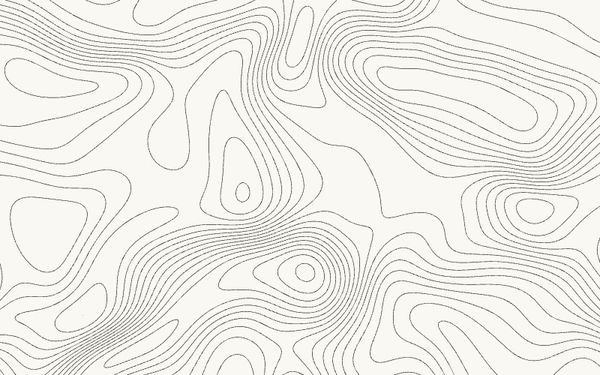
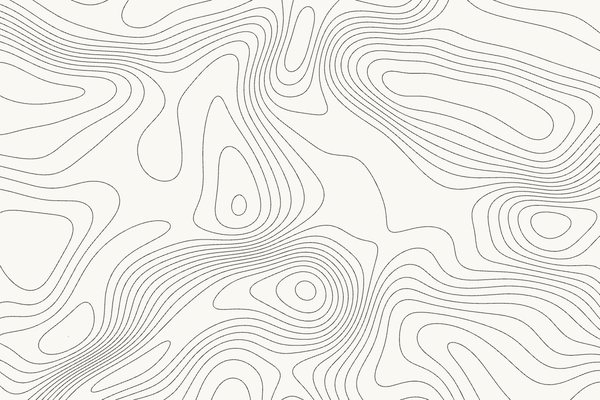
README: classic presets in the gallery, plainer badges
The gallery shows Topo, Survey, Ember, Zebra, Marble and Dune, plus
Marbling and Pearl liquid from the rebuilt Paint generator. Badges drop
the dot separators and the build step badge; counts match the app.

Claude-Session: https://claude.ai/code/session_01KgLG1o7w3wkwu5vVqm2cMx

diff --git a/README.md b/README.md
@@ -8,10 +8,9 @@
 
 <p align="center">
   <img alt="Vanilla JS" src="https://img.shields.io/badge/vanilla-JS-f7df1e?logo=javascript&logoColor=black">
-  <img alt="No build step" src="https://img.shields.io/badge/build_step-none-2ea44f">
-  <img alt="WebGL2" src="https://img.shields.io/badge/WebGL2-50_effects-990000?logo=webgl&logoColor=white">
-  <img alt="Exports" src="https://img.shields.io/badge/export-PNG_·_SVG_·_MP4_·_GIF_·_HTML-555">
-  <img alt="Languages" src="https://img.shields.io/badge/lang-EN_·_RU-3b5bdb">
+  <img alt="WebGL2" src="https://img.shields.io/badge/WebGL2-49_effects-990000?logo=webgl&logoColor=white">
+  <img alt="Exports" src="https://img.shields.io/badge/export-PNG%2C_SVG%2C_MP4%2C_GIF%2C_HTML-555">
+  <img alt="Languages" src="https://img.shields.io/badge/lang-EN%2C_RU-3b5bdb">
   <a href="https://github.com/masterclaudecoder/isoline/actions/workflows/pages.yml"><img alt="Deploy" src="https://github.com/masterclaudecoder/isoline/actions/workflows/pages.yml/badge.svg"></a>
 </p>
 
@@ -20,15 +19,15 @@
 ## Made in the Studio
 
 <p align="center">
-  <img src="docs/readme/g-marbling.jpg" width="32%" alt="Marbled paint gradient">
-  <img src="docs/readme/g-chrome.jpg" width="32%" alt="Chrome contour lines">
+  <img src="docs/readme/g-topo.jpg" width="32%" alt="Topo: thin contour lines on paper">
+  <img src="docs/readme/g-survey.jpg" width="32%" alt="Survey: pale lines on navy">
+  <img src="docs/readme/g-ember.jpg" width="32%" alt="Ember: copper lines on dark brown">
+  <img src="docs/readme/g-zebra.jpg" width="32%" alt="Zebra: black and white bands">
+  <img src="docs/readme/g-marble.jpg" width="32%" alt="Marble: fine warped bands">
+  <img src="docs/readme/g-dune.jpg" width="32%" alt="Dune: layered sand tones">
+  <img src="docs/readme/g-paint.jpg" width="32%" alt="Marbling: swirled paint">
+  <img src="docs/readme/g-pearl.jpg" width="32%" alt="Pearl liquid: iridescent liquid metal">
   <img src="docs/readme/g-glass.jpg" width="32%" alt="Glass orbs over a gradient">
-  <img src="docs/readme/g-zebra.jpg" width="32%" alt="Black and white bands">
-  <img src="docs/readme/g-neon.jpg" width="32%" alt="Neon ring over a gradient">
-  <img src="docs/readme/g-neuro.jpg" width="32%" alt="Electric noise">
-  <img src="docs/readme/g-orb.jpg" width="32%" alt="Soft 3D orb">
-  <img src="docs/readme/g-topo.jpg" width="32%" alt="Topographic lines">
-  <img src="docs/readme/g-thermal.jpg" width="32%" alt="Thermal camera colors">
 </p>
 
 ## Three tools
@@ -36,7 +35,7 @@
 | Studio | Palettes | Components |
 | :-- | :-- | :-- |
 | <img src="docs/readme/studio.jpg" alt="Studio"> | <img src="docs/readme/palettes.jpg" alt="Palettes"> | <img src="docs/readme/components.jpg" alt="Components"> |
-| Contours, 9 gradient generators, 50 stackable effects, 3D glass objects and looping motion. | Press Space for a new palette. Lock what you like, export hex, CSS or JSON. | Type, color, spacing and motion tokens on a live product mockup, plus a directory of about 120 libraries. |
+| Contours, 10 gradient generators, 49 stackable effects, 3D glass objects and looping motion. | Press Space for a new palette. Lock what you like, export hex, CSS or JSON. | Type, color, spacing and motion tokens on a live product mockup, plus a directory of about 120 libraries. |
 
 Click the logo on the home page to roll a new look across all three.
 
